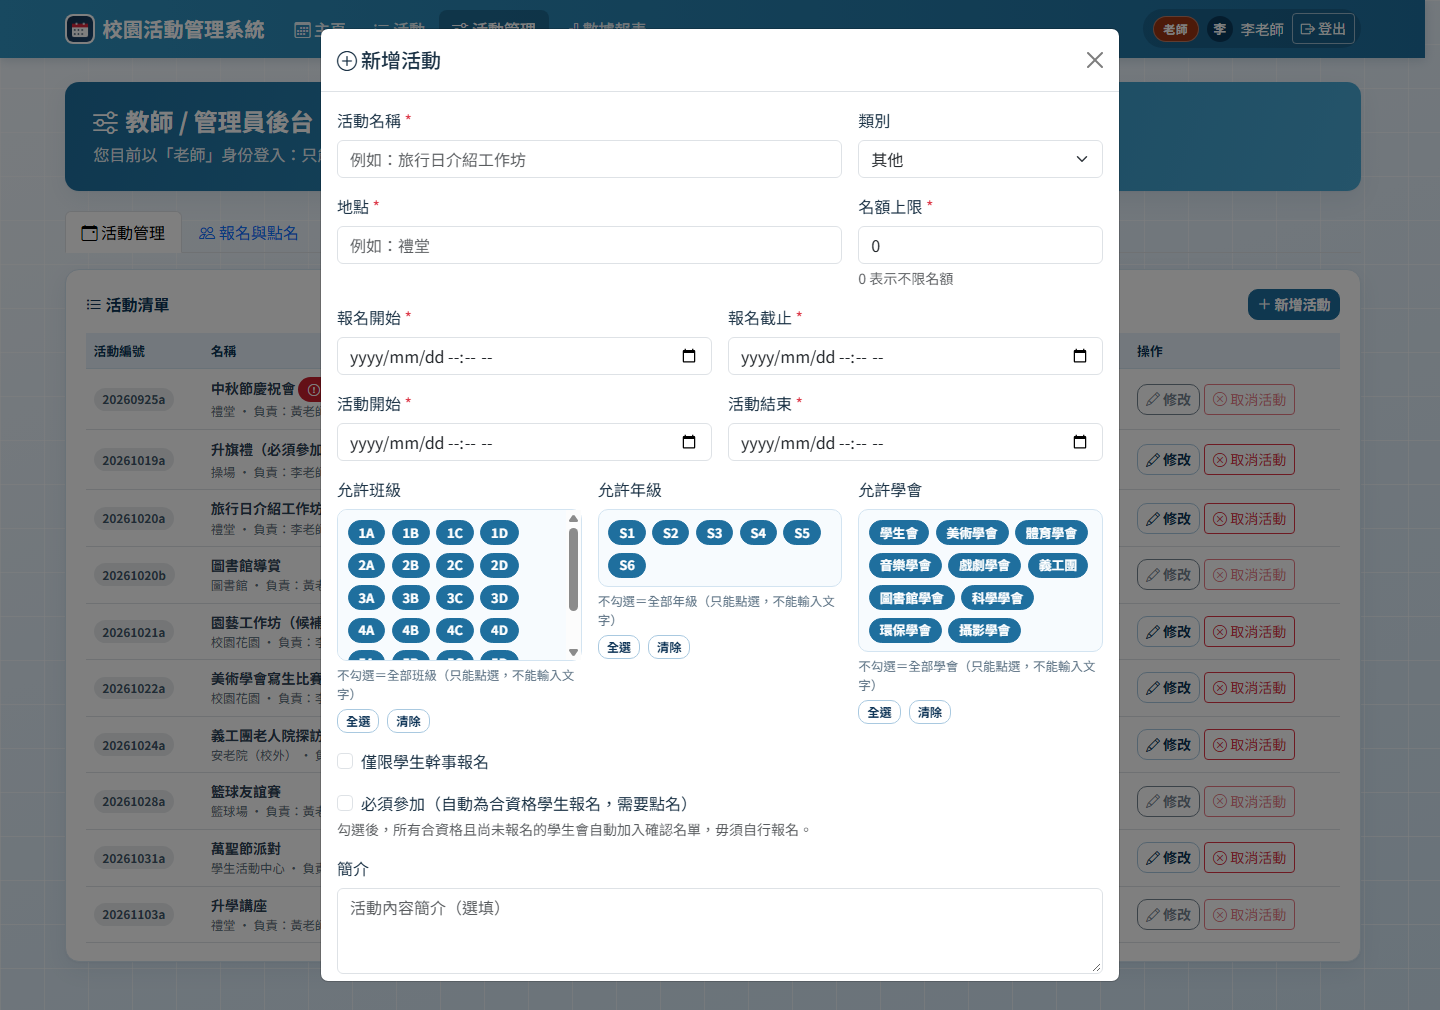
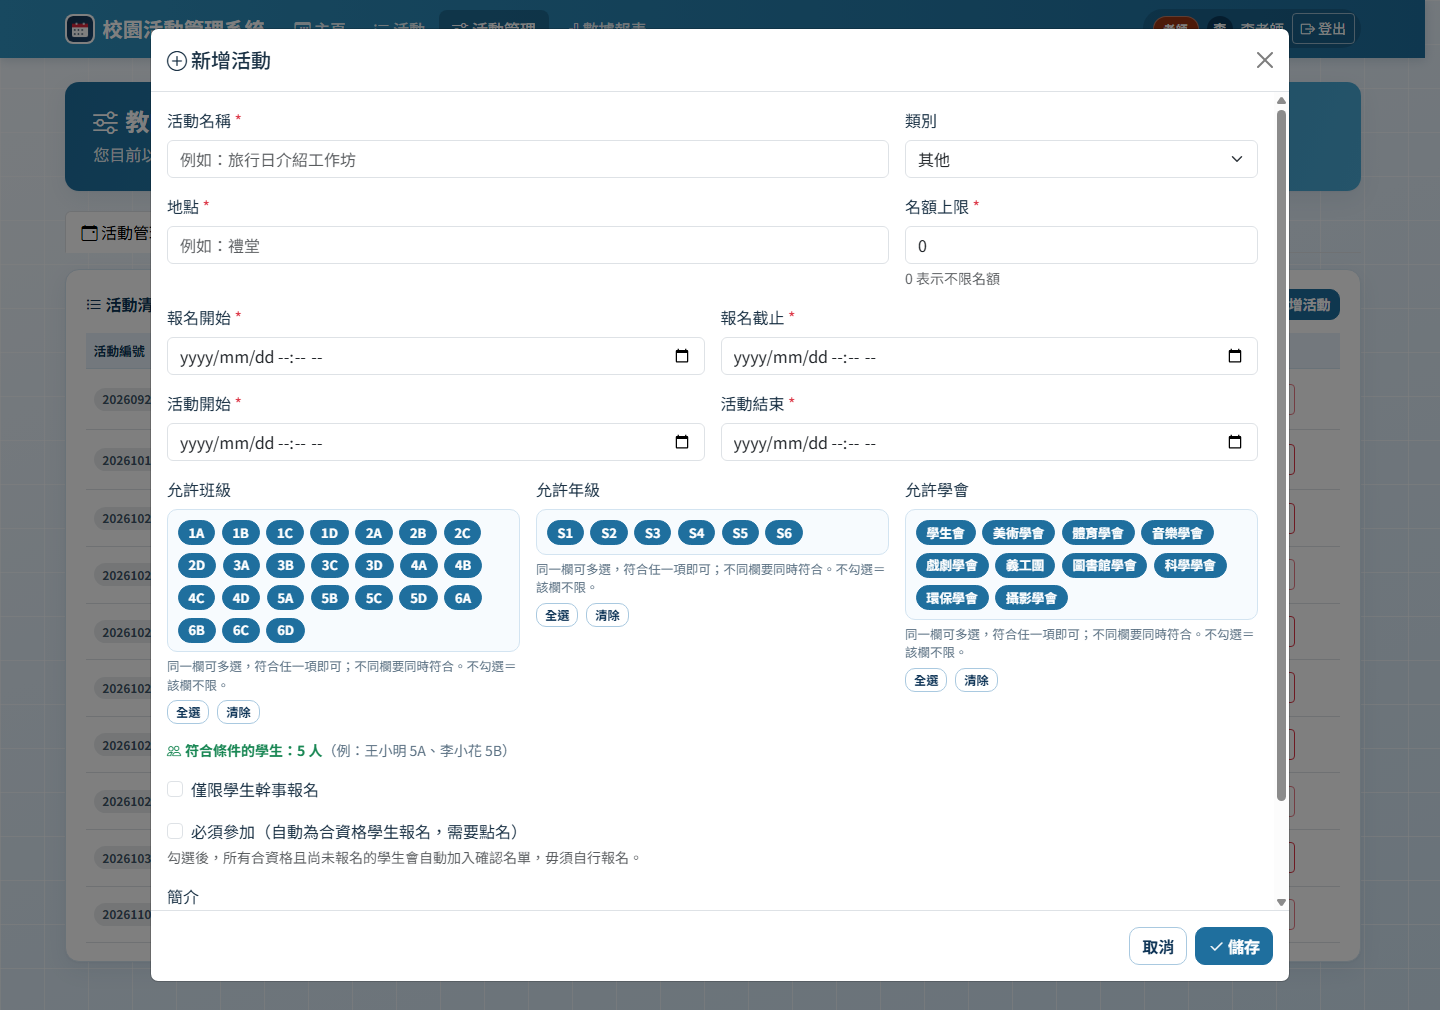
docs(v1.2): 測試報告 65/65、新增 4 張 v1.2 截圖、升級與示範路線更新

diff --git a/README.md b/README.md
@@ -1,4 +1,4 @@
-# 校園活動管理系統 · Campus Event Management System
+# 校園活動管理系統 · Campus Event Management System
 
 > 香港中學 ICT SBA 專題研習 —— 以「校園活動報名與管理」為題的完整網站系統。
 > 前端為純靜態網頁（Bootstrap 5 + 原生 JavaScript），後端為 Google Apps Script，資料儲存於 Google 試算表。
@@ -10,10 +10,10 @@
 | 角色 | 可以做甚麼 |
 | --- | --- |
 | **學生 Student** | 用日曆／列表瀏覽活動 → 查看詳情（時間有否撞期、名額是否已滿、自己是否符合資格）→ 報名（滿額自動進入候補）→ 取消報名 → 查看「已參加／未參加」（必須參加的活動會自動報名，不可取消） |
-| **老師 Teacher** | 新增／修改／取消自己負責的活動（資格用點選式多選：班級／年級／學會）→ 設定「必須參加」讓合資格學生自動報名 → 查看報名名單 → 活動開始後標記出席 → 收到每日活動提醒電郵 |
+| **老師 Teacher** | 新增／修改／取消自己負責的活動（資格用點選式多選：班級／年級／學會，填寫時即時顯示「符合條件的學生 N 人」）→ 設定「必須參加」讓合資格學生自動報名 → 查看報名名單 → 活動開始後標記出席 → 收到每日活動提醒電郵。**老師／管理員不參與學生報名**（介面不顯示報名按鈕，後端亦會擋） |
 | **管理員 Admin** | 擁有老師全部權限，另可查看數據報表、管理所有用戶的角色（Student / Teacher / Admin） |
 
-主要功能：活動分類、活動日曆（公眾假期紅日、我主持／已報名／必須參加分色，手機可橫向滾動）、撞期警告（只警告不攔截）、候補名單自動遞補、名額控制、資格限制（班級／年級／學會／職位，**白名單點選**）、**必須參加活動（自動報名＋不能取消）**、點名時序限制（活動開始後才可點名）、權限控制、數據統計圖表（出席率只計已開始活動）、每日郵件提醒。
+主要功能：活動分類、活動日曆（公眾假期紅日、我主持／已報名／必須參加分色，手機可橫向滾動）、撞期警告（只警告不攔截）、候補名單自動遞補、名額控制、資格限制（班級／年級／學會／職位，**白名單點選**）、**必須參加活動（自動報名＋不能取消）**、點名時序限制（活動開始後才可點名）、權限控制（報名只限學生）、資格人數即時預覽（同一欄 OR、不同欄 AND）、數據統計圖表（出席率與出席圓餅圖只計已開始活動）、每日郵件提醒。
 
 ---
 
@@ -61,8 +61,8 @@ CampusEventSystem/
 | `04_运行说明.md` | 兩種啟動方式（本機示範 / 真正部署到 Google）+ 排錯 |
 | `05_API契约与数据字典.md` | **開發契約**：所有 action、請求／回應格式、錯誤碼、欄位定義 |
 | `06_GitHub实战教程.md` | 由零開始的 GitHub 實戰教程（推送、分支、PR、Actions、Pages…） |
-| `07_测试报告与验收.md` | 自動化測試結果（45/45）、手動驗收腳本、已修問題與已知限制 |
-| `screenshots/` | 17 張實際執行截圖（登入、主頁、列表、詳情、後台、點名、統計、手機版） |
+| `07_测试报告与验收.md` | 自動化測試結果（65/65）、手動驗收腳本、已修問題與已知限制 |
+| `screenshots/` | 21 張實際執行截圖（登入、主頁、列表、詳情、後台、點名、統計、手機版） |
 
 ---
 
@@ -104,6 +104,8 @@ node 4-local-demo\server.js
 3. 執行 `setupDatabase` 初始化資料 → 部署為網頁應用程式（存取權限：任何人）。
 
    > **v1.1 升級提醒**：Events 工作表多了第 R 欄 `IsMandatory`，種子資料也更新了。由舊版升級時請重新執行一次 `setupDatabase()`（會重建工作表與種子），然後**重新部署** Web App（管理部署 → 編輯 → 版本：新版本），舊的 `/exec` 網址才會有新欄位與新錯誤碼。
+
+   > **v1.2 升級提醒**：v1.2 沒有新增欄位（不用重建資料），但新增了 `previewEligibility` 動作、`ROLE_NOT_ALLOWED` 錯誤碼與 `totals.attendance` 統計欄位，**必須重新部署** Web App 才會生效（health 會回 `version: "1.2"`）。
 4. 把部署得到的 `/exec` 網址填入 `1-frontend/assets/js/api.js` 的 `GAS_API` 常數。
 5. 前端可放到 GitHub Pages（本專案已附 Actions 工作流程）。
 
@@ -131,7 +133,7 @@ node 4-local-demo\server.js
 
 ## 七、實際執行畫面
 
-以下截圖全部由 headless Chrome 實際操作本機示範伺服器產生（完整 17 張見 `3-docs/screenshots/`）：
+以下截圖全部由 headless Chrome 實際操作本機示範伺服器產生（完整 21 張見 `3-docs/screenshots/`）：
 
 **學生主頁（月曆 + 統計 + 即將舉行；升旗禮帶「必須參加」紅徽章）**
 
@@ -169,7 +171,21 @@ node 4-local-demo\server.js
 
 ![手機主頁](3-docs/screenshots/12-mobile-dashboard.png)
 
-> 測試結果：端到端 45/45 全部通過，詳見 `3-docs/07_测试报告与验收.md`。
+**v1.2：老師／管理員帳號不參與報名（列表與詳情都沒有報名按鈕）**
+
+![老師看活動列表](3-docs/screenshots/18-teacher-events.png)
+
+![老師看活動詳情](3-docs/screenshots/19-teacher-detail.png)
+
+**v1.2：新增活動表單可滾動 + 即時顯示「符合條件的學生 N 人」**
+
+![資格人數預覽](3-docs/screenshots/20-admin-modal-small.png)
+
+**v1.2：資格條件交集為空時給出紅色警告**
+
+![資格交集為空](3-docs/screenshots/21-admin-eligibility-empty.png)
+
+> 測試結果：端到端 65/65 全部通過，詳見 `3-docs/07_测试报告与验收.md`。
 
 ---
 

diff --git a/3-docs/04_运行说明.md b/3-docs/04_运行说明.md
@@ -75,6 +75,8 @@ npx --yes http-server 1-frontend -p 5500 -c-1
 
 > **v1.1 注意**：`Events` 工作表多了第 R 栏 `IsMandatory`（必须参加），种子数据变成 10 个活动 / 17 笔报名。
 > 若你是从旧版升级，请重新执行一次 `setupDatabase()`（会清空重建四张表），然后再「部署 → 管理部署 → 编辑 → 新版本」重新部署，线上才会认 `isMandatory` 与新错误码。
+>
+> **v1.2 注意**：v1.2 没有新增栏位，**不必重跑 `setupDatabase()`**；但新增了 `previewEligibility` 动作、`ROLE_NOT_ALLOWED` 错误码与 `totals.attendance` 统计栏位，务必「部署 → 管理部署 → 编辑 → 新版本」重新部署一次。验证方法：浏览器打开 `你的/exec?action=health`，`version` 应显示 `"1.2"`。
 
 ### 4. 部署为 Web App（拿 API 地址）
 
